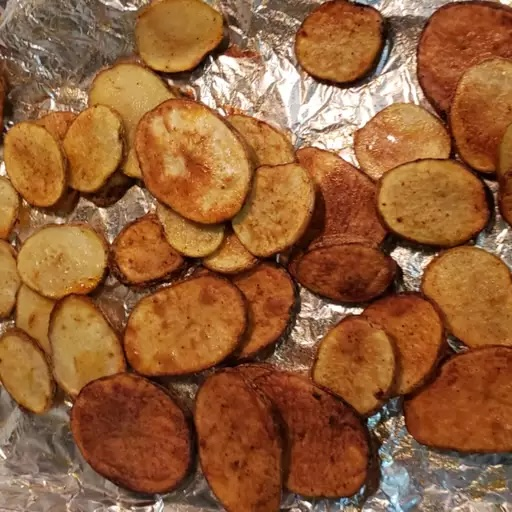
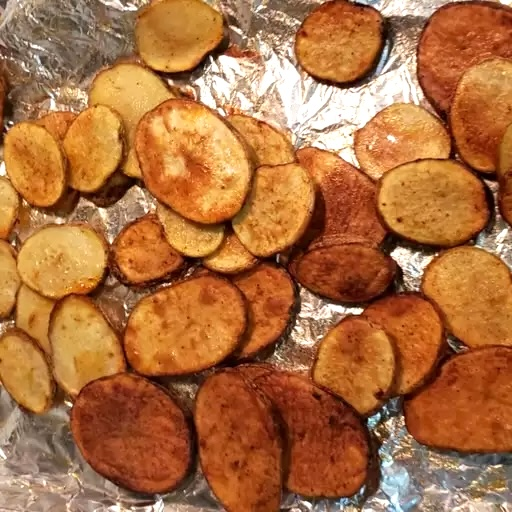
changed the image for the potoatoes

diff --git a/recipes-for-home/recipes.js b/recipes-for-home/recipes.js
@@ -80,7 +80,7 @@ const recipes = [
 		tags: ['Potatoes', 'Side'],
 		description:
 			'Easy and delicious oven roasted potatoes that go great with almost anything.',
-		image: './images/roasted-potatoes.webp',
+		image: './images/rpexels-fewmiracles-497047241-36673642.jpg',
 		recipeIngredient: [
 			'3-4 Medium Potatoes',
 			'1 Tbsp Olive oil',
